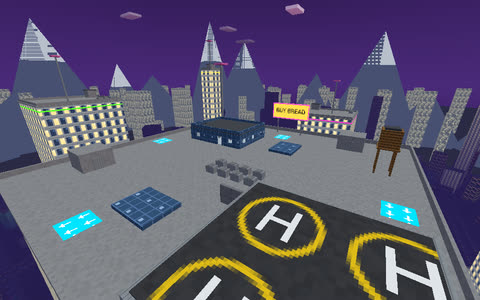
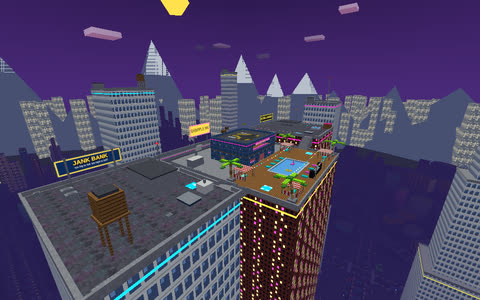
Rooftop gets its own Plant & Defuse map: party crashers vs building security
The crashers come up the south tower (a giant billboard over their backs), security holds the north tower (the
☺ CORP flag). Between them, 4 m down, the party block: the penthouse (its walls stand between the two spawns), the
pool deck with cabanas, the DJ and a pool to wade. The sites sit either side of the north tower, a flat bridge from
it to each: B, the bank's roof (its machine room in the middle, the AC farm, a water tower, a generator); A, the
hotel's (the towel hut, a rooftop bar, a hot tub, loungers under umbrellas). The crashers' ways in: mid (down onto
the party block, round the penthouse, up the stair-bridge onto the site's side), the side lane (down onto the low
roof, along it, up onto the site from the south) and the connector from mid out to the low roof. Both towers have a
glass privacy wall along their edge over mid (open at the stairs): nobody shoots into mid from spawn.

Attackers reach either site in about 11 s, security in 5.5 s; neither spawn sees the other. Bots plant on both
sites (5 plants in 6 rounds, a defuse) and fall off far less than on the old map (3 in 6 rounds, 2 of them knocked).

New vote-card thumbnails for both Rooftops; before/after sheets in docs/map-pass.

Claude-Session: https://claude.ai/code/session_01Ayo4eoNwzdSZHLDu2TcaED

diff --git a/shared/map.js b/shared/map.js
@@ -543,10 +543,10 @@ function platform() {
 // ------------------------------------------------------------ the roof kit (Rooftop, Rooftop S&D)
 // a tower's top: the body down to the street foundations, a roof slab with a cornice, a 1 m parapet round it with gaps
 // where bridges land (gaps: { n, s, w, e }: lists of [a, b] along that side). y = the roof's top
-function roofTop(B, x0, z0, x1, z1, y, facade, gaps = {}, base = -152) {
+function roofTop(B, x0, z0, x1, z1, y, facade, gaps = {}, base = -152, holes = null) { // (holes: [[x0, z0, x1, z1]] cut out of the slab)
   const W = B.local(0, 0, 0), g = (k) => (gaps[k] || []).map(([a, b]) => ({ a, b, y0: y, y1: y + 1 }));
   B.add(x0, base, z0, x1, y - 0.5, z1, facade);
-  B.add(x0 - 0.4, y - 0.5, z0 - 0.4, x1 + 0.4, y, z1 + 0.4, 'concrete');
+  if (holes) groundHoles(B, x0 - 0.4, z0 - 0.4, x1 + 0.4, z1 + 0.4, y - 0.5, y, 'concrete', holes); else B.add(x0 - 0.4, y - 0.5, z0 - 0.4, x1 + 0.4, y, z1 + 0.4, 'concrete');
   wall(W, 'x', z0 - 0.2, x0 - 0.4, x1 + 0.4, y, y + 1, 0.4, 'concrete', g('n'));
   wall(W, 'x', z1 + 0.2, x0 - 0.4, x1 + 0.4, y, y + 1, 0.4, 'concrete', g('s'));
   wall(W, 'z', x0 - 0.2, z0, z1, y, y + 1, 0.4, 'concrete', g('w'));
@@ -733,6 +733,152 @@ function rooftop() {
       stairs: [...[-1, 1].flatMap((s) => [-4.5, 13.5].map((zc) => ({ top: [s * 30.6, 0, zc], bot: [s * 21.4, L0, zc] }))),
         { bot: [8.65, L0 + 0.1, -2.2], top: [8.65, 0, 4.2] }, { bot: [-8.65, 0, 0.2], top: [-8.65, 3.9, -5.6] }],
       drops: [-1, 1].flatMap((s) => [{ from: [s * 10.5, 0, -15.5], to: [s * 10.5, L0, -17.5] }, { from: [s * 14.5, 0, -12.5], to: [s * 14.5, L0, -11] }]) })); },
+  };
+  return map;
+}
+
+
+// ------------------------------------------------------------ ROOFTOP S&D: the roof party (Plant & Defuse). the crashers
+// (attackers) come up the south tower (JANK COLA on its billboard), security (defenders) hold the north tower (☺ CORP).
+// between them, 4 m down, the party block: the penthouse (its walls stand between the two spawns), the pool deck. the
+// two sites sit either side of the north tower, a flat bridge from it to each: west, B, the bank's roof; east, A, the
+// hotel's. the crashers' ways in: mid (down onto the party block, round the penthouse, up the stair-bridge onto the
+// site's side), the side lane (down the south tower's wing onto the low roof, along it, up onto the site's south
+// side), and the connector from mid out to the low roof. security also has the stairs down into mid
+function rooftopSD() {
+  const B = builder(), D = builder(), r = rng(7717), add = B.add, W = B.local(0, 0, 0), Dw = D.local(0, 0, 0);
+  const base = -152, L0 = -4, pick = (a) => a[(r() * a.length) | 0];
+  // ---- the tops. middle column (x [-22, 22]): the north tower z [-70, -42], the party block z [-34, 14], the south
+  // tower z [22, 54]. either side (x [30, 58] and [-58, -30]): the sites z [-58, -26], the low roofs z [-18, 30]
+  roofTop(B, -22, -70, 22, -42, 0, 'office', { s: [[-2, 2]], w: [[-52, -48]], e: [[-52, -48]] }); // the north tower (security)
+  roofTop(B, -22, 22, 22, 54, 0, 'tenement', { n: [[-12, -8], [8, 12]], w: [[24, 28]], e: [[24, 28]] }); // the south tower (the crashers)
+  roofTop(B, -22, -34, 22, 14, L0, 'tenement', { n: [[-2, 2]], w: [[-32, -28], [-8, -4]], e: [[-32, -28], [-8, -4]], s: [[-12, -8], [8, 12]] }, base, [[-7, 0, 7, 8]]); // the party block, the pool cut in
+  roofTop(B, -58, -58, -30, -26, 0, 'office', { e: [[-52, -48], [-32, -28]], s: [[-46, -42]] }); // B: the bank
+  roofTop(B, 30, -58, 58, -26, 0, 'tenement', { w: [[-52, -48], [-32, -28]], s: [[42, 46]] }); // A: the hotel
+  roofTop(B, -58, -18, -30, 30, -2, 'office', { n: [[-46, -42]], e: [[-8, -4], [24, 28]] }); // the low roofs
+  roofTop(B, 30, -18, 58, 30, -2, 'tenement', { n: [[42, 46]], w: [[-8, -4], [24, 28]] });
+  // ---- the links over the gaps
+  stairBridge(B, false, -34.4, -41.6, 0, L0, 0); // north tower -> mid
+  stairBridge(B, false, 14.4, 21.6, -10, L0, 0); stairBridge(B, false, 14.4, 21.6, 10, L0, 0); // south tower -> mid
+  for (const s of [-1, 1]) {
+    skyBridge(B, D, true, Math.min(s * 22.4, s * 29.6), Math.max(s * 22.4, s * 29.6), -50, 0, 4, {}, ['neoncyan', 'neoncyan']); // north tower -> the site (flat)
+    stairBridge(B, true, s * 22.4, s * 29.6, -30, L0, 0); // mid -> the site's side
+    stairBridge(B, false, -18.4, -25.6, s * 44, -2, 0); // the low roof -> the site's south side
+    stairBridge(B, true, s * 22.4, s * 29.6, -6, L0, -2); // mid -> the low roof (the connector)
+    stairBridge(B, true, s * 29.6, s * 22.4, 26, -2, 0); // the south tower's side -> the low roof
+  }
+  // ---- the party block: the penthouse (no door upstairs, its north wall solid: the spawns stay out of each other's
+  // sight), the pool deck south of it, the cold store and AC north of it
+  penthouse(B, D, 0, -14, L0, { g: { n: [[-2, 2]], s: [[-2, 2]], sw: [[-8, -4.5], [4.5, 8]], w: [[-3.5, -1.5]], e: [[-3.5, -1.5]] } });
+  add(-7, L0 - 0.5, 0, 7, L0 - 0.45, 8, 'tile'); D.add(-7, L0 - 0.45, 0, 7, L0 - 0.12, 8, 'water');
+  add(-7.6, L0, -0.6, 7.6, L0 + 0.1, 0, 'tile'); add(-7.6, L0, 8, 7.6, L0 + 0.1, 8.6, 'tile'); add(-7.6, L0, 0, -7, L0 + 0.1, 8, 'tile'); add(7, L0, 0, 7.6, L0 + 0.1, 8, 'tile');
+  for (const [x0, z0, x1, z1] of [[-21.8, -5.7, 21.8, -0.6], [-21.8, 8.6, 21.8, 13.8], [-21.8, -0.6, -7.6, 8.6], [7.6, -0.6, 21.8, 8.6]]) D.add(x0, L0, z0, x1, L0 + 0.02, z1, 'wood');
+  for (const x of [-5, -1.5, 2, 5.5]) add(x - 0.5, L0, 9.4, x + 0.5, L0 + 0.45, 11.2, pick(['white', 'toypink', 'toyteal', 'toyyellow']));
+  Dw.B(-3, L0 - 0.02, 4, 1.6, 0.3, 0.9, 'toypink'); Dw.B(-2.5, L0 + 0.5, 4, 0.25, 0.9, 0.25, 'toypink'); Dw.B(-2.25, L0 + 0.9, 4, 0.5, 0.2, 0.2, 'toyorange'); // the flamingo
+  for (const [cx, cz, sx, sz] of [[3, 3.3, 1.4, 0.35], [3, 4.7, 1.4, 0.35], [2.45, 4, 0.35, 1.05], [3.55, 4, 0.35, 1.05]]) Dw.B(cx, L0 - 0.1, cz, sx, 0.25, sz, 'toyyellow'); // a rubber ring
+  for (const x of [-16, 16]) { // cabanas
+    const z = 10;
+    for (const dx of [-2, 2]) for (const dz of [-2, 2]) B.box(x + dx, L0 + 1.4, z + dz, 0.15, 2.8, 0.15, 'wood');
+    D.add(x - 2.3, L0 + 2.8, z - 2.3, x + 2.3, L0 + 2.95, z + 2.3, 'cloth');
+    add(x - 1.85, L0, z + 1.85, x + 1.85, L0 + 1.1, z + 1.95, 'cloth'); add(x - 1.2, L0, z - 0.6, x + 1.2, L0 + 0.5, z + 0.6, 'toyteal');
+  }
+  add(-3, L0, 12.2, 3, L0 + 1.1, 13.6, 'tire'); add(-2.8, L0 + 1.1, 12.4, 2.8, L0 + 1.2, 13.4, 'metal'); D.add(-2.6, L0 + 0.3, 12.16, 2.6, L0 + 0.9, 12.2, 'addj', { fit: 1 }); // the DJ
+  for (const x of [-4, 4]) { add(x - 0.6, L0, 12.3, x + 0.6, L0 + 2.2, 13.5, 'tire'); D.add(x - 0.4, L0 + 1.2, 12.26, x + 0.4, L0 + 2.0, 12.3, 'grid'); }
+  for (const z of [-2.5, 9]) { for (let x = -12; x <= 12; x += 1.4) D.box(x, L0 + 3.2 - 0.4 * Math.sin(((x + 12) / 24) * Math.PI), z, 0.22, 0.28, 0.22, pick(['neonpink', 'neonyellow', 'neoncyan', 'lamp'])); for (const x of [-12.2, 12.2]) B.box(x, L0 + 1.7, z, 0.12, 3.4, 0.12, 'metal'); }
+  for (const s of [-1, 1]) { add(s * 21, L0, 11.2, s * 19, L0 + 0.8, 13.2, 'stone'); palm(B.local(s * 20, 12.2, 0, L0 + 0.8), 0, 0, 5, r); }
+  add(-20.5, L0, -33.2, -15.5, L0 + 2.6, -30.2, 'metal'); D.add(-20.5, L0 + 2.6, -33.2, -15.5, L0 + 2.65, -30.2, 'white'); // the cold store
+  for (const x of [15, 18]) acUnit(W, x, -33, L0); B.box(-6, L0 + 0.6, -27, 1.2, 1.2, 1.2, 'crate'); B.box(6, L0 + 0.6, -27, 1.2, 1.2, 1.2, 'crate'); cratePile(B, -4, -32.5, 3, r);
+  // ---- B, the bank's roof: its machine room in the middle (cover), the JANK BANK sign, the AC farm, a water tower
+  add(-47, 0, -45, -41, 4.5, -39, 'concrete'); add(-47.2, 4.5, -45.2, -40.8, 4.8, -38.8, 'roofg'); D.add(-47.05, 0, -42.8, -47, 2.2, -41.2, 'metal');
+  for (const z of [-50, -47]) acUnit(W, -55, z, 0);
+  waterTower(W, -53, -31, 0); add(-35, 0, -56, -33, 0.6, -54, 'metal'); D.add(-35.3, 0.6, -56.3, -32.7, 2.4, -53.7, 'white');
+  for (const x of [-52, -40]) add(x - 0.2, 0, -57.6, x + 0.2, 6.4, -57.2, 'metal');
+  D.add(-54, 2.2, -57.42, -38, 6.2, -57.38, 'adjankbank', { fit: 1 });
+  B.box(-36, 0.6, -36, 1.2, 1.2, 1.2, 'crate'); B.box(-36, 0.6, -34.6, 1.2, 1.2, 1.2, 'crate'); B.box(-50, 0.45, -36.5, 0.9, 0.9, 0.9, 'metal');
+  D.add(-57.7, 0, -57.7, -30.3, 0.02, -26.3, 'asphalt');
+  // ---- A, the hotel's roof: the towel hut in the middle, HOTEL 4 HOURS, a hot tub, loungers under umbrellas
+  for (const x of [40, 52]) add(x - 0.2, 0, -57.6, x + 0.2, 6.4, -57.2, 'metal');
+  D.add(38, 2.2, -57.42, 54, 6.2, -57.38, 'neonhotel', { fit: 1 });
+  add(41, 0, -45, 47, 2.6, -39, 'wood'); add(40.8, 2.6, -45.2, 47.2, 2.8, -38.8, 'roofpink');
+  add(50, 0, -33, 54, 0.9, -32.7, 'tile'); add(50, 0, -29.3, 54, 0.9, -29, 'tile'); add(50, 0, -32.7, 50.3, 0.9, -29.3, 'tile'); add(53.7, 0, -32.7, 54, 0.9, -29.3, 'tile');
+  D.add(50.3, 0.02, -32.7, 53.7, 0.75, -29.3, 'water');
+  for (const z of [-52, -49]) { add(55, 0, z, 56.8, 0.45, z + 0.8, 'white'); B.box(54.6, 1.2, z + 0.4, 0.08, 2.4, 0.08, 'metal'); D.box(54.6, 2.46, z + 0.4, 2.2, 0.12, 2.2, pick(['toypink', 'toyteal'])); }
+  B.box(36, 0.6, -36, 1.2, 1.2, 1.2, 'crate'); B.box(36, 0.6, -34.6, 1.2, 1.2, 1.2, 'crate'); B.box(50, 0.45, -37, 0.9, 0.9, 0.9, 'metal');
+  D.add(30.3, 0, -57.7, 57.7, 0.02, -26.3, 'asphalt');
+  // ---- the low roofs: AC, a skylight, vents, crates; the two towers: machine rooms, AC, the ☺ CORP flag, the billboard
+  for (const s of [-1, 1]) {
+    acUnit(W, s * 34, 4, -2); acUnit(W, s * 54, 16, -2); add(s * 50.5, -2, 4, s * 53.5, -1.5, 8, 'glass'); acUnit(W, s * 36, -12, -2);
+    B.box(s * 38, -1.55, 20, 0.9, 0.9, 0.9, 'metal'); cratePile({ add: B.local(0, 0, 0, -2) }, s < 0 ? -53.5 : 50.5, -16.5, 2, r);
+    D.add(s * 30.3, -2, -17.7, s * 57.7, -1.98, 29.7, 'asphalt');
+    add(s * 12, 0, -68, s * 18, 4.5, -62, 'concrete'); add(s * 11.8, 4.5, -68.2, s * 18.2, 4.8, -61.8, 'roofg'); // the north tower's machine rooms
+    add(s * 14, 0, 38, s * 20, 4.5, 44, 'concrete'); add(s * 13.8, 4.5, 37.8, s * 20.2, 4.8, 44.2, 'roofg'); // the south tower's
+    acUnit(W, s * 18, -46, 0); acUnit(W, s * 18, 50, 0);
+  }
+  for (const x of [-6, 6]) add(x - 0.2, 0, -69.6, x + 0.2, 7, -69.2, 'metal');
+  D.add(-8, 2.5, -69.42, 8, 6.8, -69.38, 'flagcorp', { fit: 1 });
+  billboard(W, 0, 53, 0, 'x'); // over the crashers' backs
+  // privacy walls on the two towers' edges over mid (up off their parapets, open at the stairs): neither spawn
+  // looks down into mid or across it, you go down to fight for it
+  for (const [x0, x1] of [[-22.4, -2], [2, 22.4]]) { add(x0, 1, -42, x1, 3.2, -41.6, 'glassblock'); D.add(x0, 3.2, -42.06, x1, 3.35, -41.54, 'neoncyan'); }
+  for (const [x0, x1] of [[-22.4, -12], [-8, 8], [12, 22.4]]) { add(x0, 1, 21.6, x1, 3.2, 22, 'glassblock'); D.add(x0, 3.2, 21.54, x1, 3.35, 22.06, 'neonpink'); }
+  D.add(-21.7, 0, -69.7, 21.7, 0.02, -42.3, 'asphalt'); D.add(-21.7, 0, 22.3, 21.7, 0.02, 53.7, 'asphalt');
+  // more cover: a big HVAC box (standing cover) and its grille
+  const hvac = (x, z, y = 0, alongX = true) => { const [hx, hz] = alongX ? [1.5, 1] : [1, 1.5]; add(x - hx, y, z - hz, x + hx, y + 2.2, z + hz, 'metal'); D.add(x - hx + 0.3, y + 2.2, z - hz + 0.3, x + hx - 0.3, y + 2.26, z + hz - 0.3, 'grid'); };
+  const planter = (x, z, y = 0, alongX = true) => { const [hx, hz] = alongX ? [1.5, 0.6] : [0.6, 1.5]; add(x - hx, y, z - hz, x + hx, y + 0.9, z + hz, 'stone'); D.add(x - hx + 0.15, y + 0.9, z - hz + 0.15, x + hx - 0.15, y + 1.5, z + hz - 0.15, 'hedge'); };
+  // A: a rooftop bar with stools, planters, an HVAC box, a day bed
+  add(34, 0, -53, 38.5, 1.1, -52, 'wood'); add(33.9, 1.1, -53.1, 38.6, 1.16, -51.9, 'chrome'); for (const x of [34.6, 35.9, 37.2]) B.box(x, 0.4, -51.1, 0.45, 0.8, 0.45, 'metal');
+  planter(44, -32); planter(36.5, -44, 0, false); hvac(52, -44, 0, false); add(49, 0, -52.5, 51.4, 0.6, -50.5, 'toypink');
+  // B: an HVAC box, a skylight row, the generator, cable drums
+  hvac(-36, -46); add(-52, 0, -42, -49, 0.5, -38, 'glass'); D.add(-52.1, 0.5, -42.1, -48.9, 0.56, -37.9, 'metal');
+  add(-51.5, 0, -54, -48.5, 1.6, -52.4, 'containerg'); for (const x of [-40, -38.6]) B.box(x, 0.6, -31, 1.2, 1.2, 1.2, 'wood');
+  // the low roofs (off the lane down the middle): a water tank, a chimney stack, an HVAC box, planters
+  for (const s2 of [-1, 1]) { waterTower(W, s2 * 52, -6, -2); add(s2 * 39.5, -2, 9.5, s2 * 40.5, 1.2, 10.5, 'brick'); hvac(s2 * 37, 24, -2); planter(s2 * 50, 22, -2); planter(s2 * 38, -3, -2, false); }
+  // the two towers: HVAC boxes and skylights (cover out of the spawns)
+  for (const s2 of [-1, 1]) { hvac(s2 * 9, -50); hvac(s2 * 9, 30); add(s2 * 15, 0, -58, s2 * 18, 0.5, -54, 'glass'); add(s2 * 11.5, 0, 46, s2 * 14.5, 0.5, 50, 'glass'); }
+  // the bomb site boards, on the parapets by the crashers' ways in
+  siteBoard(D, -50.5, -0.4, -25.52, 'x', 'siteb', 2.0); siteBoard(D, 50.5, -0.4, -25.52, 'x', 'sitea', 2.0);
+  siteBoard(D, -29.52, -0.4, -38, 'z', 'siteb', 1.8); siteBoard(D, 29.52, -0.4, -38, 'z', 'sitea', 1.8);
+
+  // ---- spawns: the crashers on the south tower's back half, security on the north tower's
+  const att = [[-6, 0.2, 48], [-2, 0.2, 50], [2, 0.2, 50], [6, 0.2, 48], [-4, 0.2, 45], [0, 0.2, 46], [4, 0.2, 45]];
+  const def = [[-6, 0.2, -64], [-2, 0.2, -66], [2, 0.2, -66], [6, 0.2, -64], [-4, 0.2, -61], [0, 0.2, -62], [4, 0.2, -61]];
+  const spawns = [...att.slice(0, 3), ...def.slice(0, 3), [-44, 0.2, -50], [44, 0.2, -50], [-44, -1.8, 10], [44, -1.8, 10], [0, L0 + 0.2, -28], [-14, L0 + 0.2, 2], [14, L0 + 0.2, 2], [-16, 0.2, 30], [16, 0.2, 30], [-14, 0.2, -54], [14, 0.2, -54]];
+
+  // ---- the look (render-only): the towers round about, the street far below, the city to the fog
+  const rs = rng(7718), scene = [[0, -113, 34, 20, 2], [-110, -113, 30, -30, 1], [110, -113, 28, 35, 3], [-110, -15, 32, 50, 3], [110, -15, 30, 10, 2], [-110, 97, 26, -15, 1], [0, 97, 36, 30, 2], [110, 97, 30, 60, 3]];
+  const plan = [], roofs = {};
+  for (const [x, z, w, h, t] of scene) { const ry = tower(D, x, z, w, w, h, { tiers: t, base, r: rs }); D.box(x, base - 10, z, w, 20, w, 'office'); plan.push([x, z, w, w, h, t]); roofs[`${x},${z}`] = ry; }
+  const ours = [[-22, 22, -70, -42, 0, 'neoncyan'], [-22, 22, 22, 54, 0, 'neonpink'], [-22, 22, -34, 14, L0, 'neongreen'], [-58, -30, -58, -26, 0, 'neoncyan'], [30, 58, -58, -26, 0, 'neonpink'], [-58, -30, -18, 30, -2, 'neonyellow'], [30, 58, -18, 30, -2, 'neonyellow']];
+  for (const [x0, x1, z0, z1, y, c] of ours) { D.add(x0 - 0.06, y - 2.6, z0 - 0.06, x1 + 0.06, y - 2.1, z1 + 0.06, c); D.add(x0, -172, z0, x1, base, z1, 'office'); }
+  const roads = { xs: [-140, -70, 70, 140], zs: [-140, -84, 68, 140], w: 18 };
+  streetLevel(D, -162, [...plan.map(([x, z, w, d]) => ({ x, z, w, d })), ...ours.map(([x0, x1, z0, z1]) => ({ x: (x0 + x1) / 2, z: (z0 + z1) / 2, w: x1 - x0, d: z1 - z0 }))], roads, 180, rs);
+  cityDress(D, plan, roofs, base, rs);
+  cityBeyond(D, -162, 180, 520, rng(5152), { kill: -150, cap: -14, shore: 340, avenues: [[0, -260, 0.62], [260, 0, -0.95], [-240, 60, 1.4], [-200, -300, 2.6]], streets: gridOut(roads.xs, roads.zs, 180, 200) });
+
+  let graph = null;
+  const map = { name: 'Rooftop', size: 'medium', boxes: B.boxes, deco: D.boxes, killY: -150, floorY: -170, cityR: 520, cityCap: -14,
+    haze: { k: 0.92, top: -25, bottom: -162, dist: 95, color: 0x6a5c9c },
+    sky: { top: 0x05051a, mid: 0x4a2a7a, bot: 0x000005, fog: 0x2a2050 }, fogNear: 110, fogFar: 480, spawns, teamSpawns: { att, def }, edgeGuard: true,
+    traffic: { grid: { ...roads, S: 180, y: -162 + 0.08, off: 5 } },
+    // the crashers' lanes (the bomb carriers walk these; the walk graph gets them round whatever's in the way)
+    nav: {
+      A: [
+        [[0, 46], [8, 36], [16, 30], [22, 26.5], [26, 26], [34, 26], [44, 18], [44, -14], [44, -22], [44, -30], [44, -40]], // the side lane: the low roof, up onto A
+        [[2, 46], [10, 30], [10, 18], [10, 12], [12, 2], [12, -6], [12, -24], [18, -30], [26, -30], [34, -30], [40, -36]], // mid, round the penthouse, up A's side
+        [[4, 46], [10, 30], [10, 18], [12, 6], [18, -6], [26, -6], [34, -6], [44, -10], [44, -22], [44, -30], [46, -40]], // mid, the connector out to the low roof, up
+      ],
+      B: [
+        [[0, 46], [-8, 36], [-16, 30], [-22, 26.5], [-26, 26], [-34, 26], [-44, 18], [-44, -14], [-44, -22], [-44, -30], [-44, -40]],
+        [[-2, 46], [-10, 30], [-10, 18], [-10, 12], [-12, 2], [-12, -6], [-12, -24], [-18, -30], [-26, -30], [-34, -30], [-40, -36]],
+        [[-4, 46], [-10, 30], [-10, 18], [-12, 6], [-18, -6], [-26, -6], [-34, -6], [-44, -10], [-44, -22], [-44, -30], [-46, -40]],
+      ],
+    },
+    sites: [{ id: 'A', min: [32, 0, -56], max: [56, 0, -28] }, { id: 'B', min: [-56, 0, -56], max: [-32, 0, -28] }],
+    get graph() { return graph || (graph = buildNav(B.boxes, { x0: -62, z0: -74, n: 132, cell: 1, levels: [L0 - 0.45, -2, 0, 3.9], band: 0.6,
+      stairs: [{ top: [0, 0, -42.6], bot: [0, L0, -33.4] }, ...[-1, 1].flatMap((s) => [
+        { top: [s * 30.6, 0, -30], bot: [s * 21.4, L0, -30] }, { top: [s * 44, 0, -26.6], bot: [s * 44, -2, -17.4] }, { top: [s * 30.6, -2, -6], bot: [s * 21.4, L0, -6] },
+        { top: [s * 21.4, 0, 26], bot: [s * 30.6, -2, 26] }, { top: [s * 10, 0, 22.6], bot: [s * 10, L0, 13.4] }]),
+        { bot: [8.65, L0 + 0.1, -14.2], top: [8.65, 0, -7.8] }, { bot: [-8.65, 0, -11.8], top: [-8.65, 3.9, -17.6] }] })); },
   };
   return map;
 }
@@ -3640,7 +3786,7 @@ function deadmall() {
 }
 
 export const MAPS = {
-  crate: crate(), platform: platform(), rooftop: rooftop(), suburb: suburb(), suburb_sd: suburbSD(), warehouse: warehouse(), warehouse_sd: warehouseSD(),
+  crate: crate(), platform: platform(), rooftop: rooftop(), rooftop_sd: rooftopSD(), suburb: suburb(), suburb_sd: suburbSD(), warehouse: warehouse(), warehouse_sd: warehouseSD(),
   desert: desert(), desert_sd: desertSD(), islands: islands(), skyline: skyline(), bazaar: bazaar(), bazaar_sd: bazaarSD(), range: range(), backrooms: backrooms(), forest: forest(),
   deadmall: deadmall(),
 };
